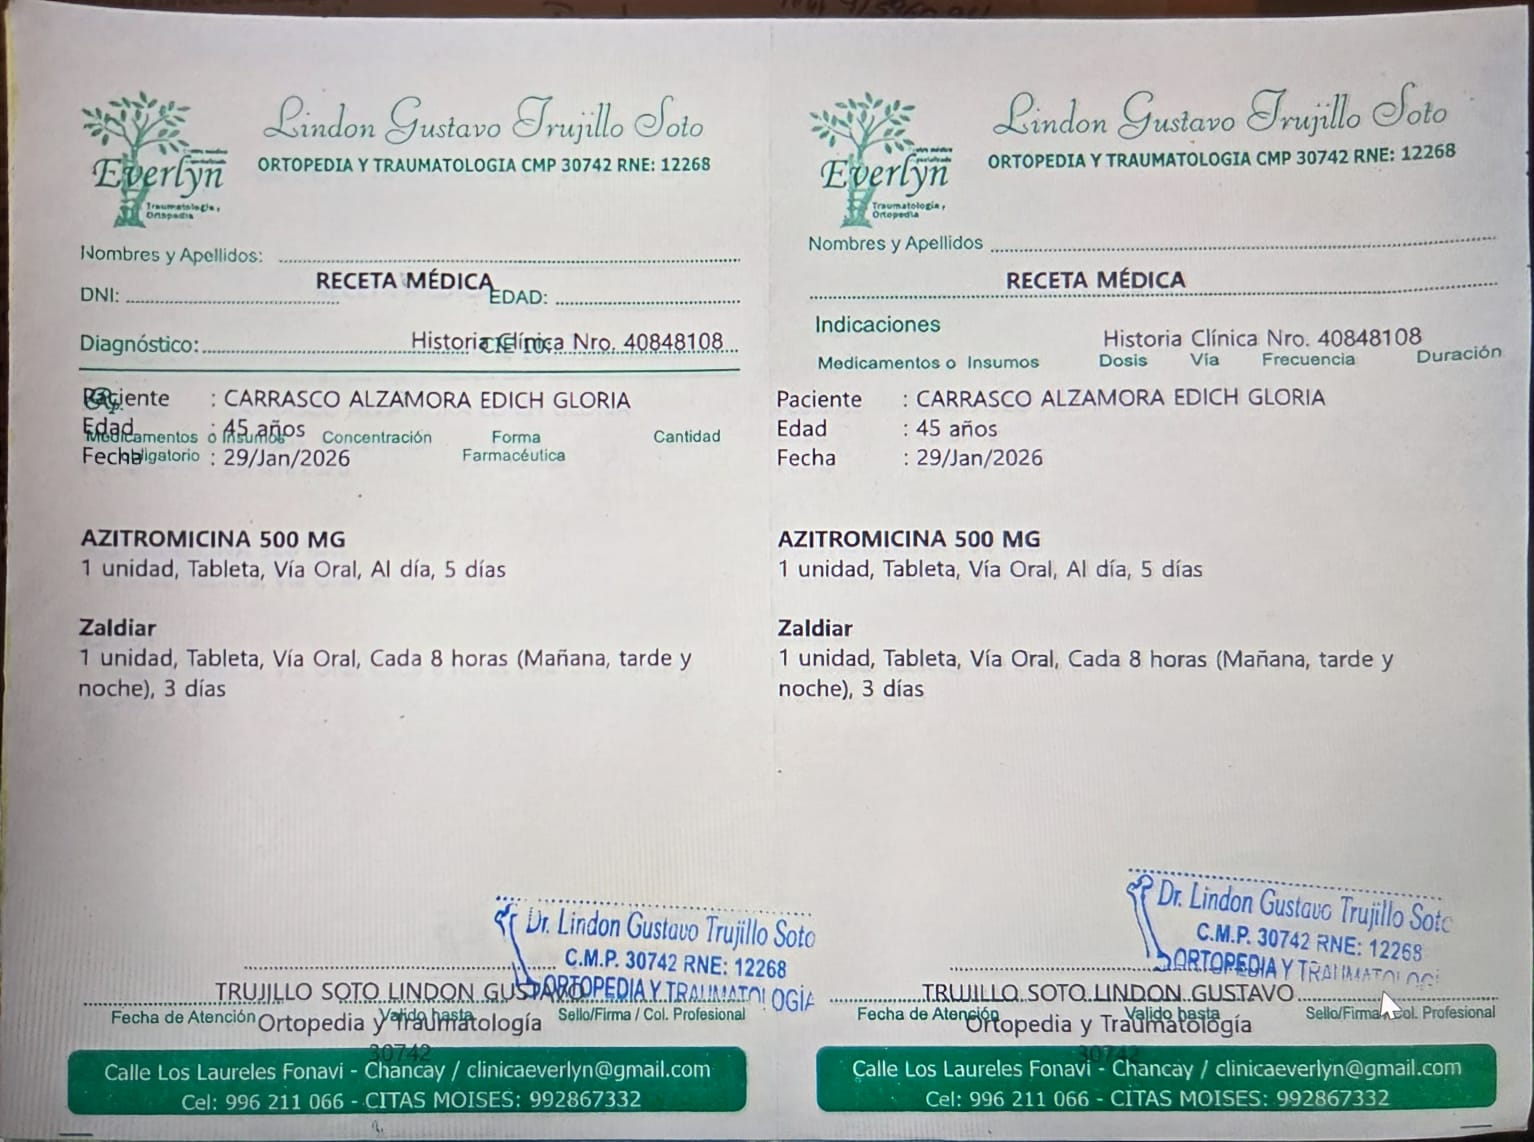
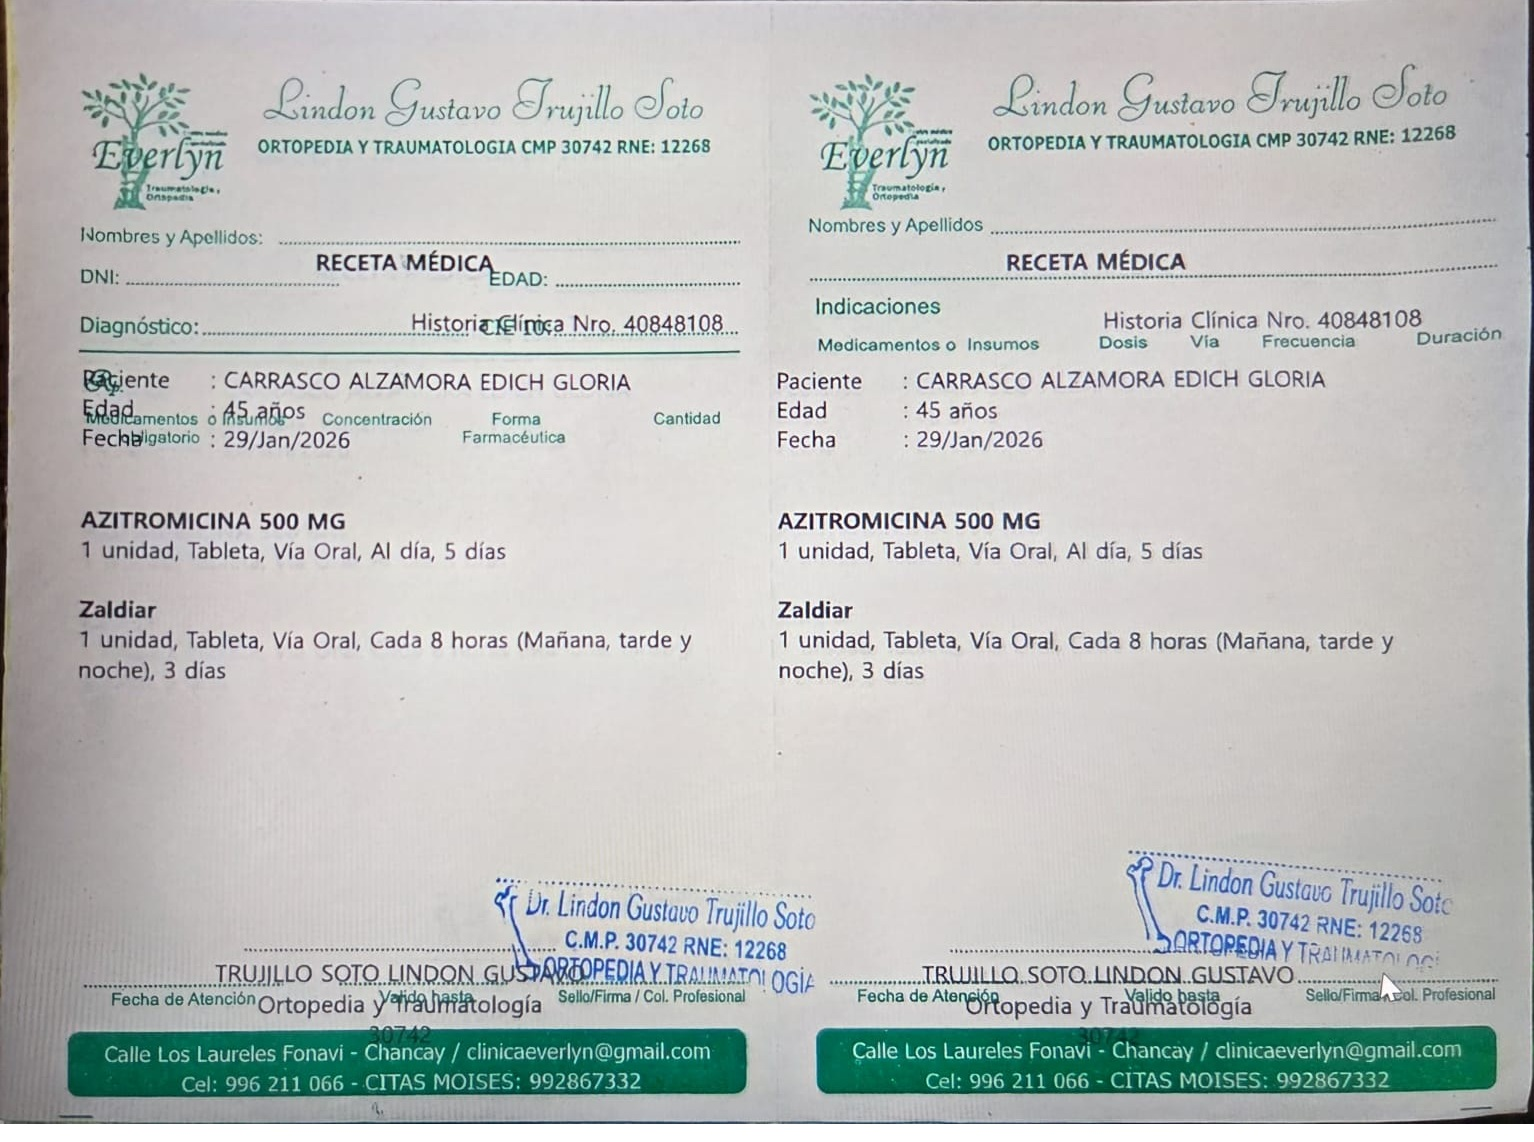
.

diff --git a/application/views/clinic/appointment_print/prescription.php b/application/views/clinic/appointment_print/prescription.php
@@ -17,12 +17,13 @@
 	}
 	
 	.border{ border: solid 1px red; }
-	.line1{ position: absolute; top: 21%; }
-	.line2{ position: absolute; top: 25%; }
-	.line3{ position: absolute; top: 30%; }
-	.line4{ position: absolute; top: 37%; }
-	.line5{ position: absolute; top: 45%; }
-	.line6{ position: absolute; top: 90%; }
+	.line1{ position: absolute; top: 20%; }
+	.line1_1{ position: absolute; top: 19%; }
+	.line2{ position: absolute; top: 24%; }
+	.line3{ position: absolute; top: 28%; }
+	.line4{ position: absolute; top: 36%; }
+	.line5{ position: absolute; top: 44%; }
+	.line6{ position: absolute; top: 88%; }
 	
 	/* line1 */
 	#name_1{ left: 19%; width: 30%; }
@@ -65,7 +66,7 @@
 		</div>
 		<div class="border line6" id="date_1"><?= date("d/M/Y") ?></div>
 		
-		<div class="border line1" id="name_2"><?= $patient->name ?></div>
+		<div class="border line1_1" id="name_2"><?= $patient->name ?></div>
 		<div class="border line4" id="medicine_2">
 			<?php foreach($medicine as $i => $item){ ?>
 			<div>

diff --git a/application/controllers/clinic/Appointment_print.php b/application/controllers/clinic/Appointment_print.php
@@ -245,6 +245,15 @@ class Appointment_print extends CI_Controller {
 	public function prescription($id){
 		$appointment = $this->general->id("appointment", $id);
 		
+		$diags = $this->general->filter("appointment_diag_impression", ["appointment_id" => $id]);
+		$diag = $diags ? $this->general->id("diag_impression_detail", $diags[0]->diag_id) : null;//first diag selected
+		
+		print_r($appointment); echo "<br/><br/>";
+		print_r($diags); echo "<br/><br/>";
+		print_r($diag); echo "<br/><br/>";
+		
+		return;
+		
 		$doctor = $this->general->id("person", $appointment->doctor_id);
 		if ($doctor){
 			$doctor->age = $doctor->birthday ? $this->my_func->age_calculator($doctor->birthday, true) : "-";
